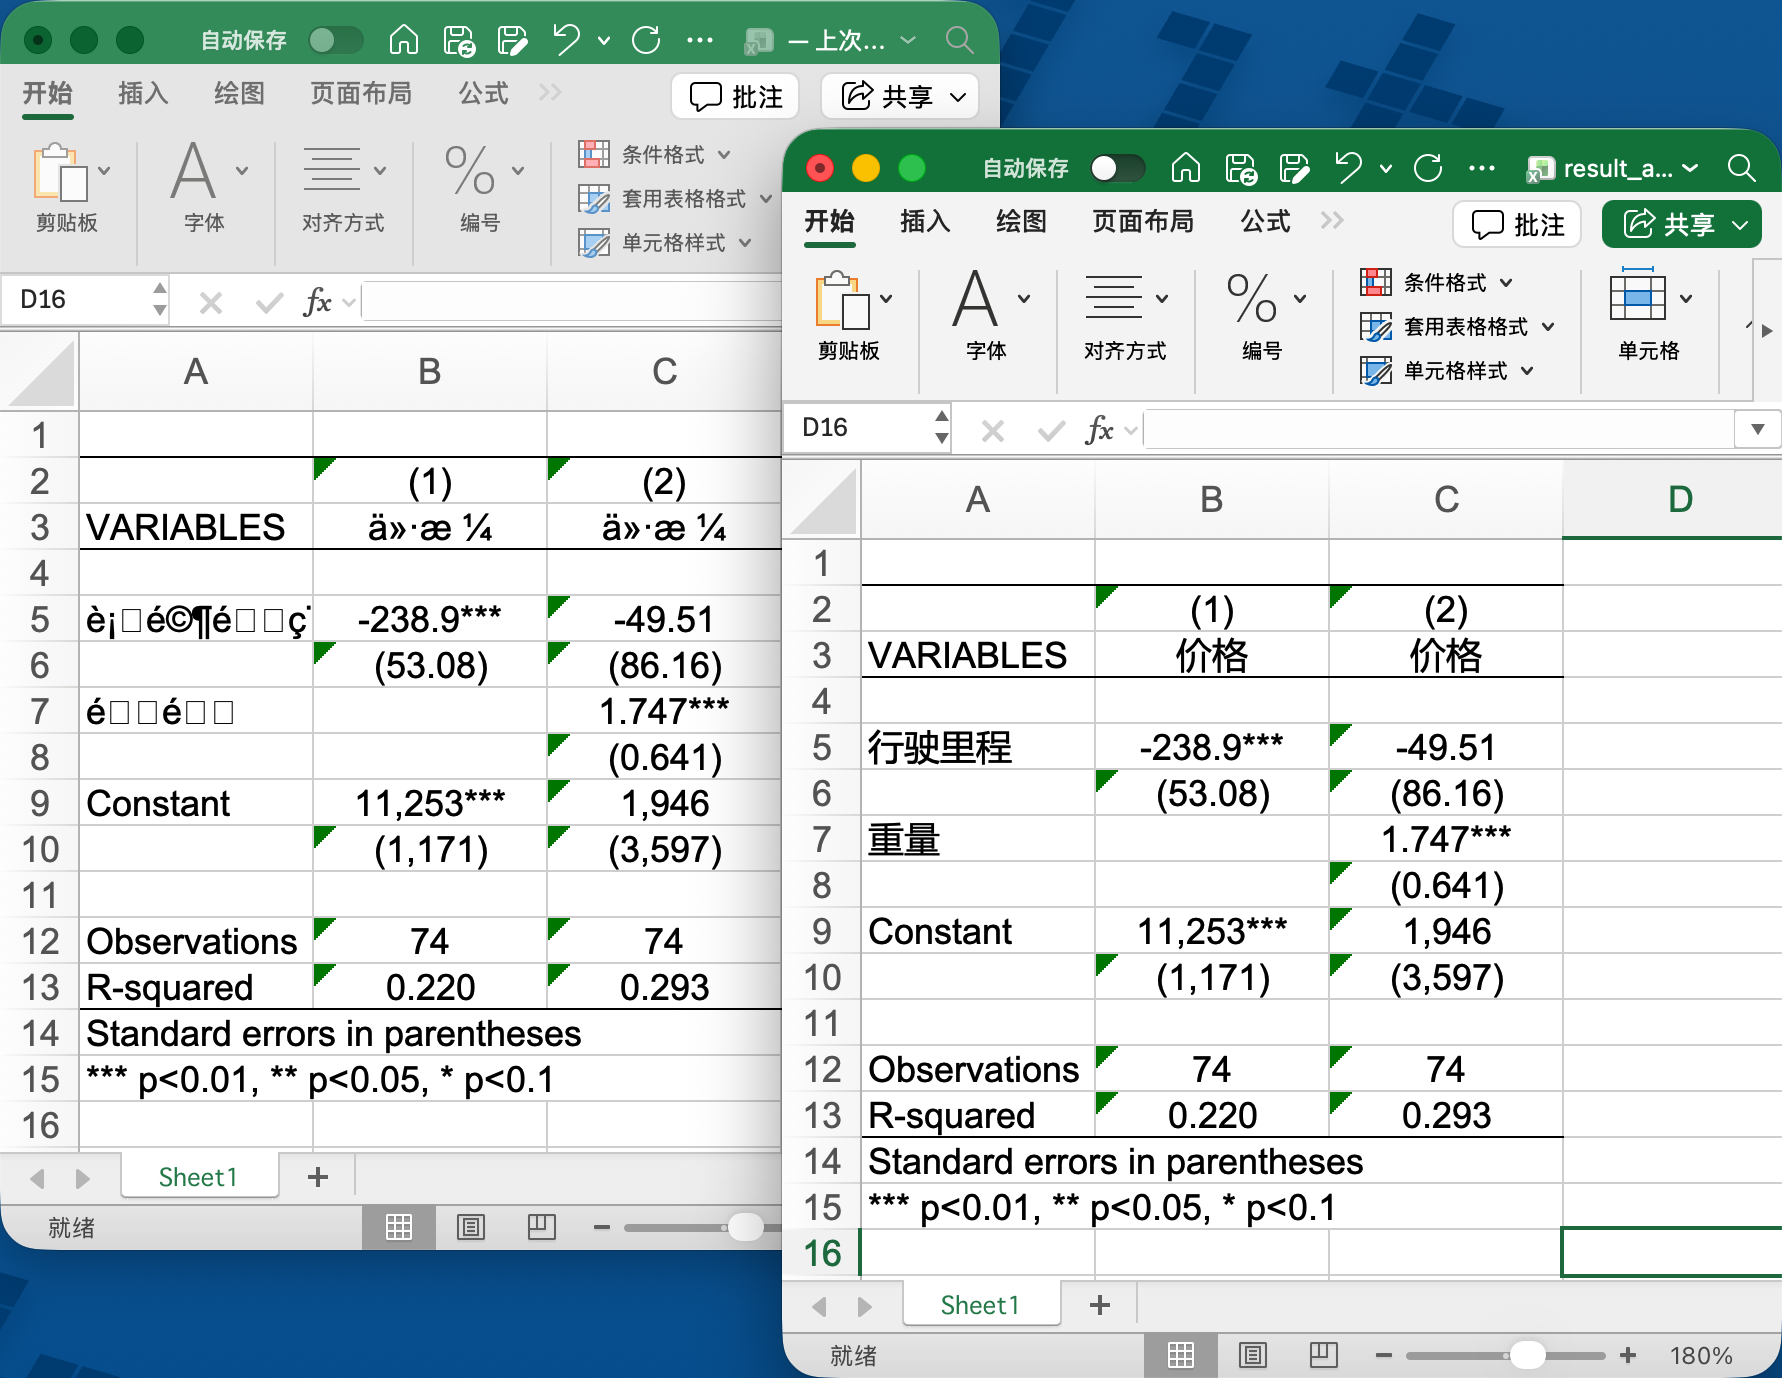
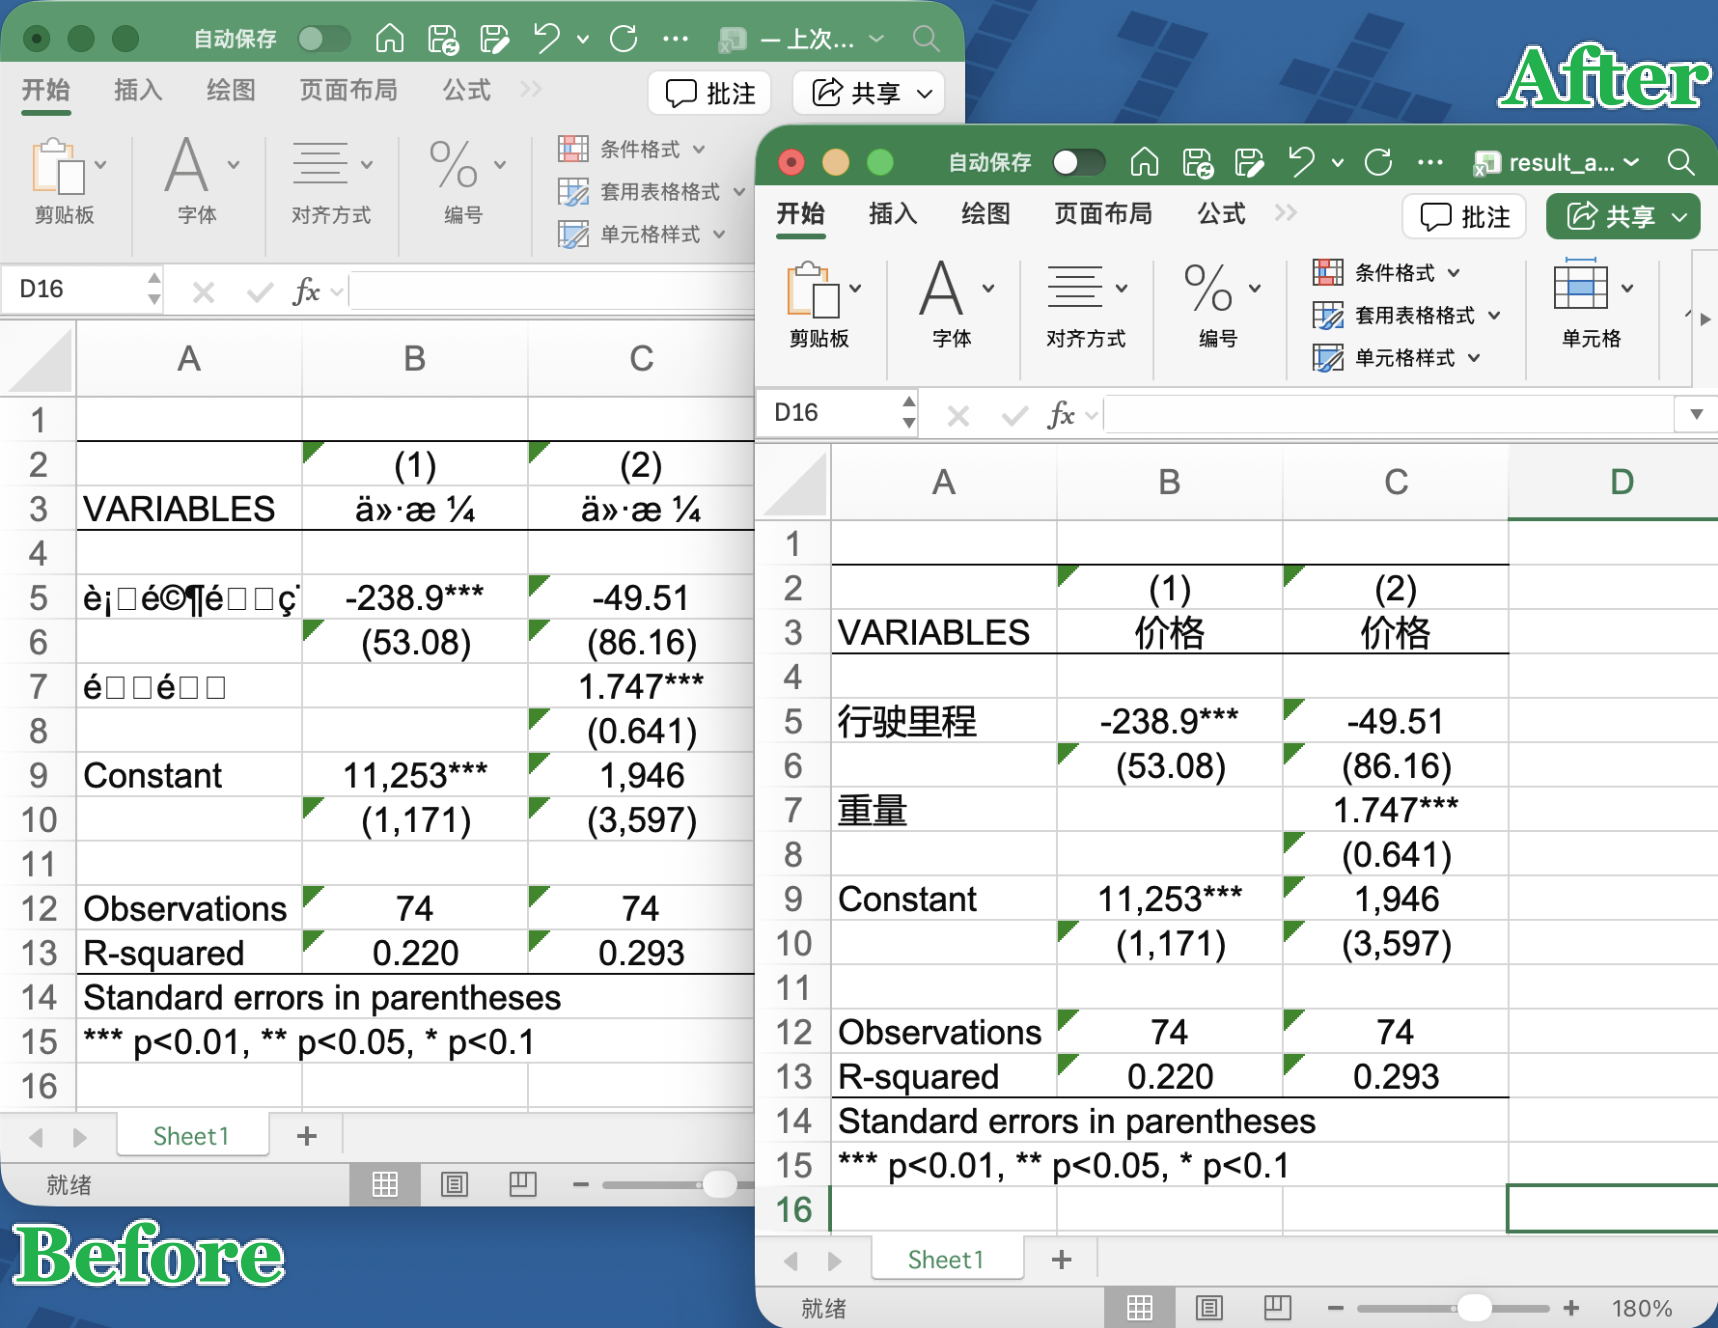
doc: replace GitHub-specific alert syntax with cross-platform compatible emoji format

diff --git a/README.md b/README.md
@@ -9,27 +9,31 @@
 
 ![Example](example.png)
 
-> [!NOTE]
+> **ℹ Introduction**
+>
 > `repairCN` is a lightweight **Stata** command designed to fix Chinese character encoding issues in files exported by `outreg2`. It currently supports `.xls` / `.xml` (XML format) and `.rtf` files, and performs fixes directly on the original file.
 
-> [!CAUTION]
+> **⚠ Caution**
+>
 > This tool is currently in an **experimental development** stage. If you encounter any bugs while using it, feel free to send feedback to [hi@zihaowang.cn](mailto:hi@zihaowang.cn)!
 
 ## Installation
 
 **All users** can install from GitHub:
+
 ```stata
 net install repairCN, from("https://raw.githubusercontent.com/ZihaoVistonWang/repairCN/main/") replace
 ```
 
 **Chinese users** are recommended to install from Gitee (faster):
+
 ```stata
 net install repairCN, from("https://gitee.com/ZihaoVistonWang/repairCN/raw/main/") replace
 ```
 
 ## Usage Example
 
-After your last `outreg2` output command, add the `repairCN` fix command. 
+After your last `outreg2` output command, add the `repairCN` fix command.
 
 *Of course, you can also use it independently to repair files that were previously generated*.
 

diff --git a/README_CN.md b/README_CN.md
@@ -9,26 +9,31 @@
 
 ![Example](example.png)
 
-> [!NOTE]
+> **ℹ 介绍**
+>
 > `repairCN` 是一款轻量级 **Stata** 命令，专门用于修复 `outreg2` 导出文件中的中文乱码问题。目前支持 `.xls` / `.xml` 和 `.rtf` 文件，直接在原文件基础上进行修复。
 
-> [!CAUTION]
+> **⚠ 注意**
+>
 > 目前该工具仍处于**开发实验**阶段，若使用期间发现bug，欢迎及时发送邮件至[hi@zihaowang.cn](mailto:hi@zihaowang.cn)进行反馈！
 
 ## 安装
 
 **国内用户**推荐从 Gitee 安装（速度更快）：
+
 ```stata
 net install repairCN, from("https://gitee.com/ZihaoVistonWang/repairCN/raw/main/") replace
 ```
 
 **海外用户**可从 GitHub 安装：
+
 ```stata
 net install repairCN, from("https://raw.githubusercontent.com/ZihaoVistonWang/repairCN/main/") replace
 ```
 
 ## 使用示例
-在你的最后一行`outreg2`结果输出命令后，添加`repairCN`修复命令。
+
+在你的最后一行 `outreg2`结果输出命令后，添加 `repairCN`修复命令。
 
 *当然你也可以单独用它来修复之前已经生成的文件。*
 
